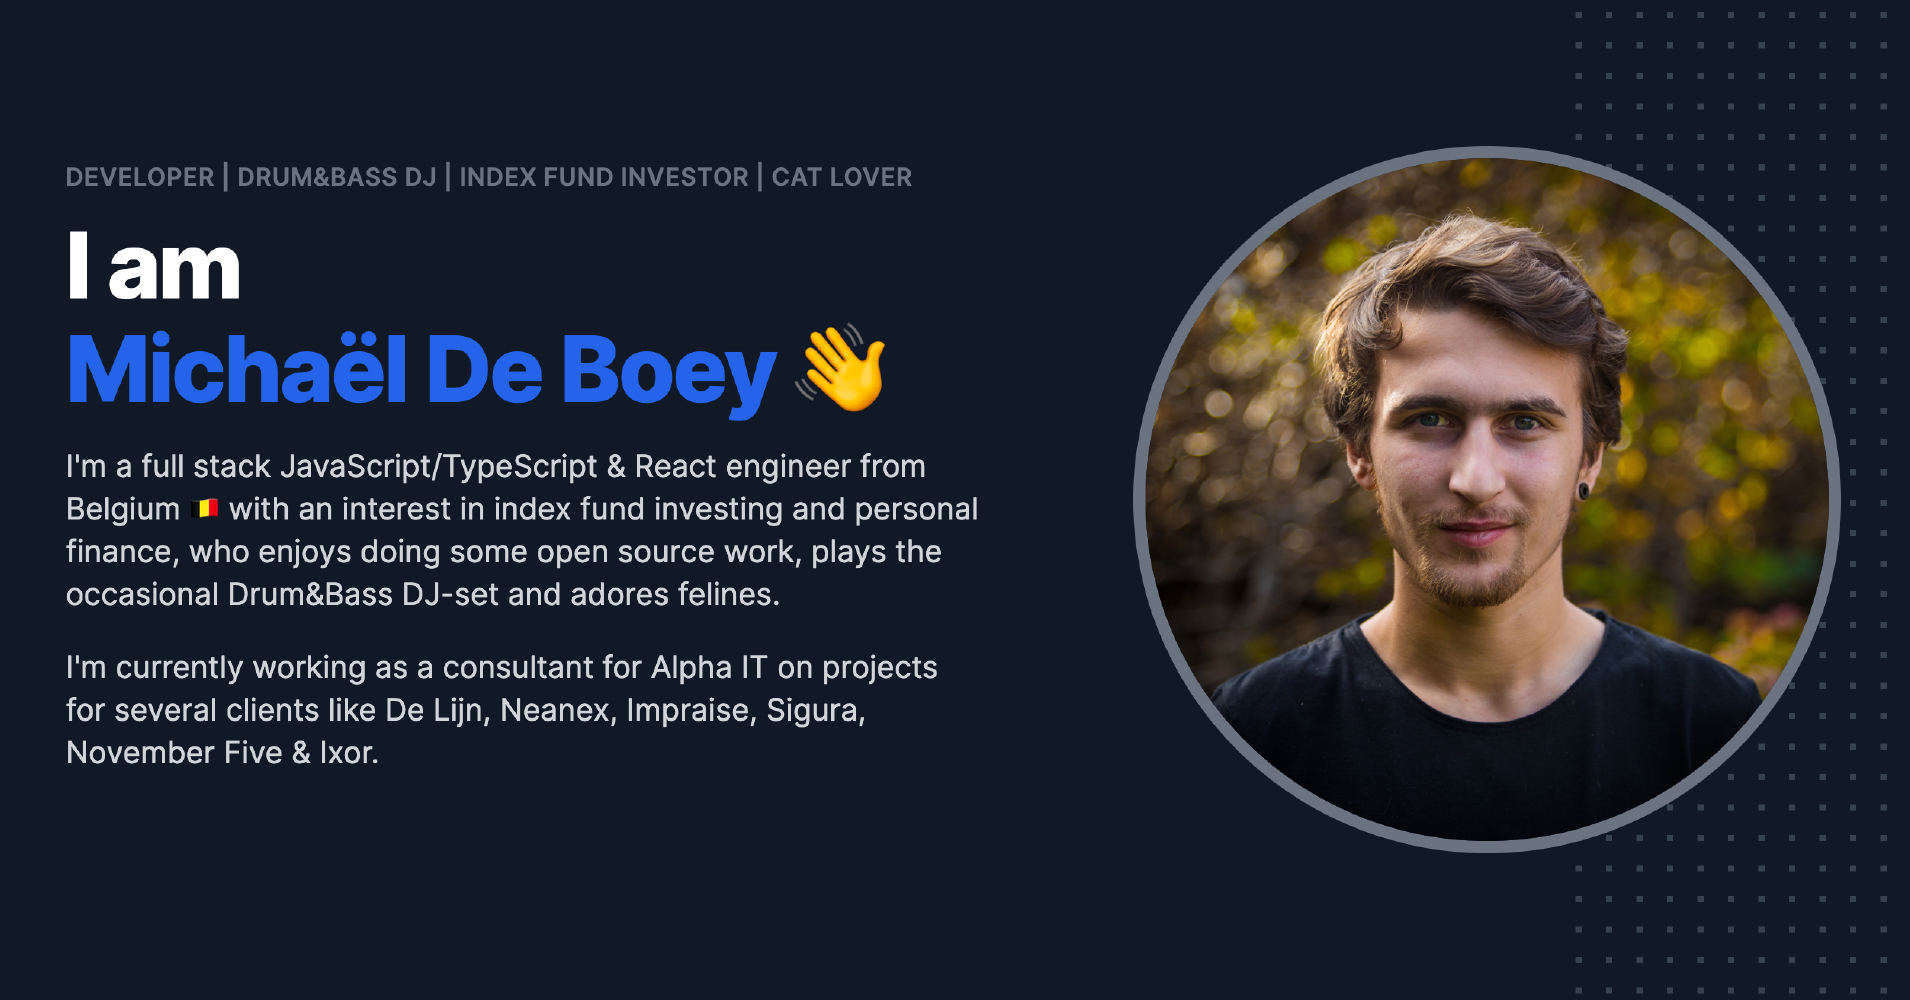
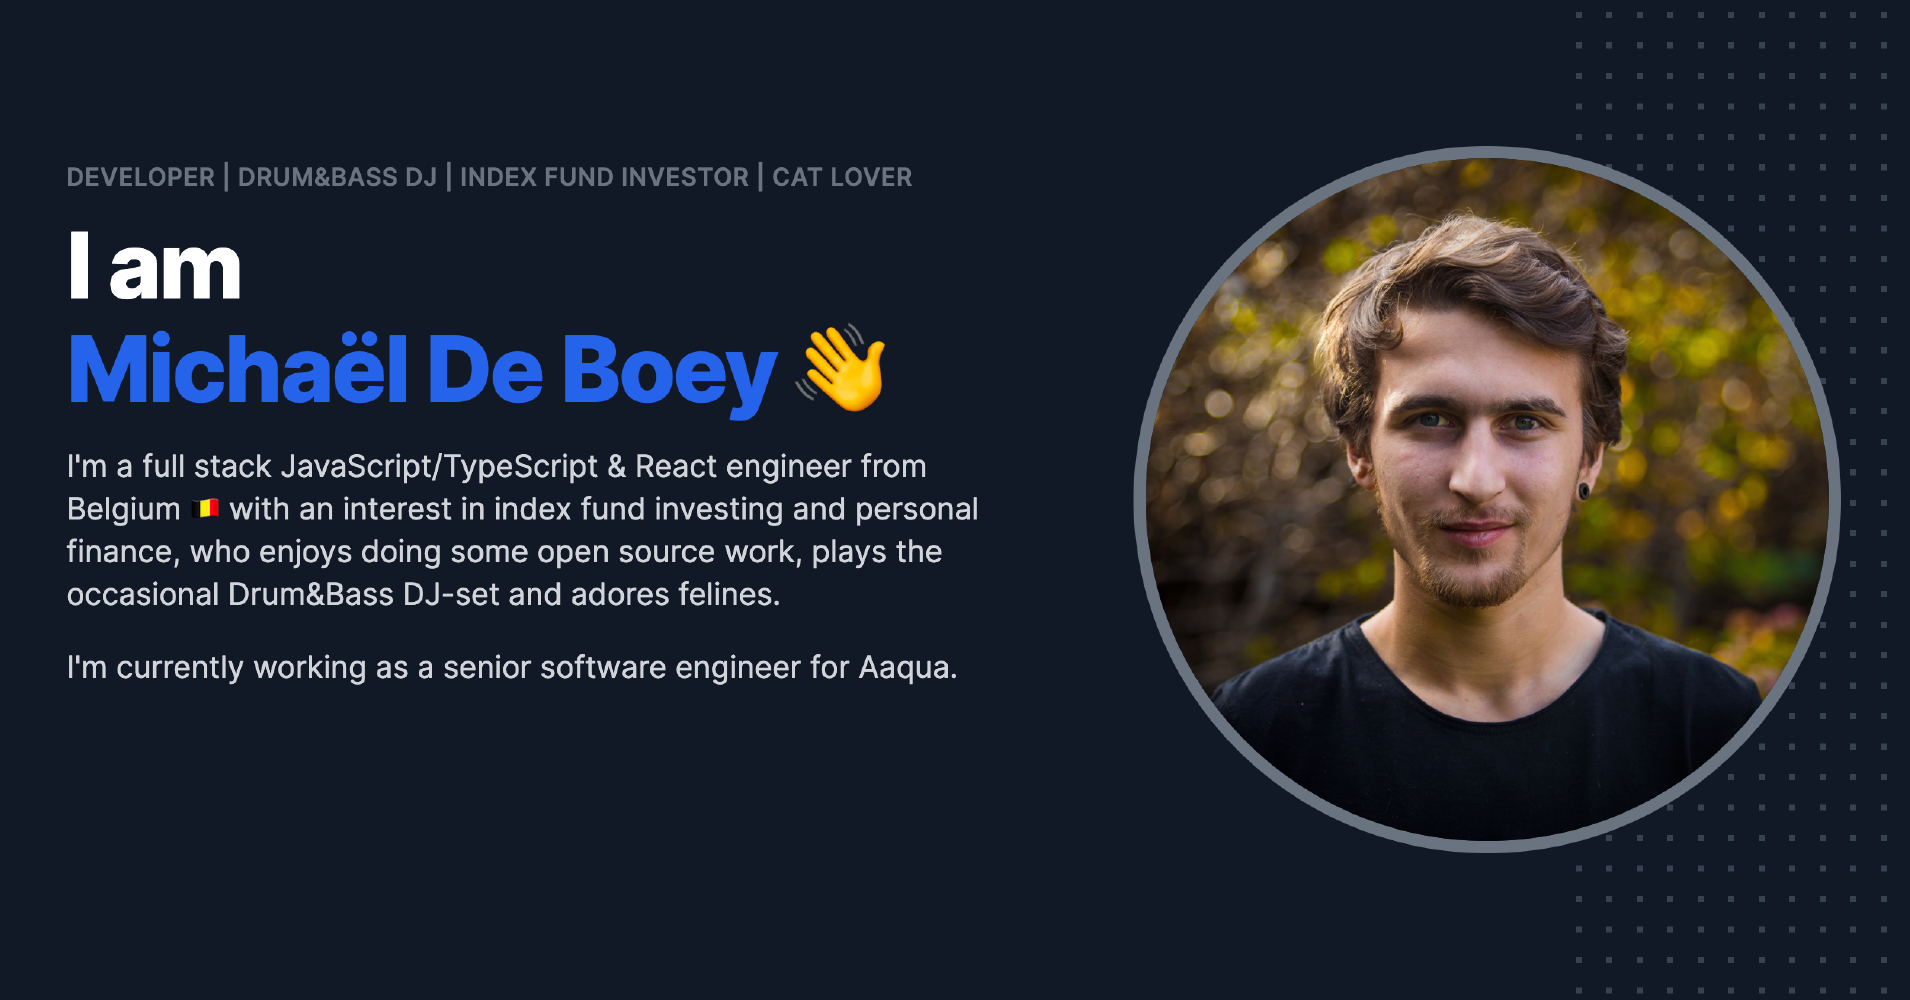
feat: add Aaqua as a company

diff --git a/index.html b/index.html
@@ -23,7 +23,7 @@
     <meta property="og:url" content="https://michaeldeboey.be" />
     <meta property="og:type" content="website" />
     <meta property="og:title" content="Michaël De Boey" />
-    <meta property="og:image" content="https://michaeldeboey.be/img/og.png?1" />
+    <meta property="og:image" content="https://michaeldeboey.be/img/og.png?2" />
     <meta
       property="og:image:alt"
       content="Michaël De Boey's personal website"
@@ -45,7 +45,7 @@
       name="twitter:description"
       content="Michaël De Boey's personal website"
     />
-    <meta name="twitter:image" content="https://michaeldeboey.be/img/og.png?1" />
+    <meta name="twitter:image" content="https://michaeldeboey.be/img/og.png?2" />
     <meta
       name="twitter:image:alt"
       content="Michaël De Boey's personal website"
@@ -133,9 +133,7 @@
               <p
                 class="mt-3 text-base text-gray-300 sm:mt-5 sm:text-xl lg:text-lg xl:text-xl"
               >
-                I'm currently working as a consultant for Alpha IT on projects
-                for several clients like De Lijn, Neanex, Impraise, Sigura,
-                November Five & Ixor.
+                I'm currently working as a senior software engineer for Aaqua.
               </p>
             </div>
 
@@ -283,9 +281,28 @@
           Companies I worked for
         </h2>
 
-        <div class="mt-12 grid grid-cols-2 gap-8 md:grid-cols-6 lg:grid-cols-5">
+        <div class="mt-12 grid grid-cols-2 gap-8 md:grid-cols-3 lg:grid-cols-6">
           <a
-            class="col-span-1 flex flex-col items-center justify-center md:col-span-2 lg:col-span-1 hover:text-blue-600"
+            class="col-span-1 flex flex-col items-center justify-center hover:text-blue-600"
+            href="https://aaqua.live"
+            target="_blank"
+          >
+            <svg
+              class="h-10 sm:h-12"
+              fill="currentColor"
+              viewBox="0 0 107 56"
+              aria-hidden="true"
+            >
+              <path
+                d="M17.03 38.56H8.27l-1.64 4.89H.16L8.63 20h8.39l8.47 23.45h-6.87l-1.59-4.89zm-1.53-4.82l-1.11-3.48c-.6-1.94-.64-4.33-.6-7.04h-2.11c.02 2.71-.06 5.08-.68 7.04l-1.17 3.48h5.67zm11.16 5.36c0-4.35 4.63-6.04 10.65-6.51v-.6c0-1.3-.75-2.07-2.39-2.07-1.83 0-2.75.9-3.07 2.37l-5.44-.9c.36-2.97 3.48-5.29 8.64-5.29 4.99 0 7.92 2.22 7.92 6.64v5.53c0 .81.13 1 .94 1h1.3v4.18h-2.65c-2.97 0-3.56-1.22-3.63-3.48H37.2c-.66 2.22-2.22 4.05-5.33 4.05-3.1.01-5.21-1.87-5.21-4.92zm10.67-2.44v-1.05c-2.77.34-4.93.98-4.93 2.88 0 1 .68 1.6 1.88 1.6 1.64.01 3.05-1.08 3.05-3.43zm21.72 9.71c0-3.39.85-4.99 1.66-6.36h-2.28c-.75 1.92-2.11 3.99-5.29 3.99-3.93 0-6.64-3.63-6.64-8.98s2.62-8.92 6.59-8.92c3.18 0 4.54 2.05 5.36 3.93h2.3c-.64-1-1.24-2.05-1.28-3.39h5.36V50h-5.78v-3.63zm.17-11.33c0-3.31-1.34-4.86-3.31-4.86-1.88 0-3.29 1.3-3.29 4.86s1.41 4.89 3.29 4.89c1.94.02 3.29-1.6 3.31-4.89zm9.37 2.93V26.64h5.89v10.18c0 1.88.9 2.69 2.18 2.69 1.88 0 2.69-1.69 2.69-3.95v-8.92h5.87v16.81h-5.36c0-1.05.51-2.35 1.41-3.76h-2.24c-.85 2.52-2.54 4.29-5.27 4.29-3.15.02-5.17-2.17-5.17-6.01zm19.69 1.13c0-4.35 4.63-6.04 10.65-6.51v-.6c0-1.3-.75-2.07-2.37-2.07-1.83 0-2.75.9-3.09 2.37l-5.42-.9c.36-2.97 3.48-5.29 8.64-5.29 4.99 0 7.92 2.22 7.92 6.64v5.53c0 .81.13 1 .94 1h1.3v4.18h-2.65c-2.97 0-3.54-1.22-3.63-3.48h-1.75c-.68 2.22-2.22 4.05-5.33 4.05-3.03.01-5.21-1.87-5.21-4.92zm10.65-2.44v-1.05c-2.78.35-4.93.99-4.93 2.89 0 1 .66 1.6 1.88 1.6 1.64 0 3.05-1.09 3.05-3.44z"
+              />
+            </svg>
+
+            <div class="mt-3 text-lg leading-6 font-medium sr-only">Aaqua</div>
+          </a>
+
+          <a
+            class="col-span-1 flex flex-col items-center justify-center hover:text-blue-600"
             href="https://alpha-it.be"
             target="_blank"
           >
@@ -306,7 +323,7 @@
           </a>
 
           <a
-            class="col-span-1 flex flex-col items-center justify-center md:col-span-2 lg:col-span-1 hover:text-blue-600"
+            class="col-span-1 flex flex-col items-center justify-center hover:text-blue-600"
             href="https://delijn.be"
             target="_blank"
           >
@@ -333,7 +350,7 @@
           </a>
 
           <a
-            class="col-span-1 flex flex-col items-center justify-center md:col-span-2 lg:col-span-1 hover:text-blue-600"
+            class="col-span-1 flex flex-col items-center justify-center hover:text-blue-600"
             href="https://impraise.com"
             target="_blank"
           >
@@ -365,7 +382,7 @@
           </a>
 
           <a
-            class="col-span-1 flex flex-col items-center justify-center md:col-span-2 md:col-start-2 lg:col-span-1 hover:text-blue-600"
+            class="col-span-1 flex flex-col items-center justify-center hover:text-blue-600"
             href="http://neanex.com"
             target="_blank"
           >
@@ -384,7 +401,7 @@
           </a>
 
           <a
-            class="col-span-2 flex flex-col items-center justify-center md:col-span-2 md:col-start-4 lg:col-span-1 hover:text-blue-600"
+            class="col-span-1 flex flex-col items-center justify-center hover:text-blue-600"
             href="https://sigura.be"
             target="_blank"
           >
